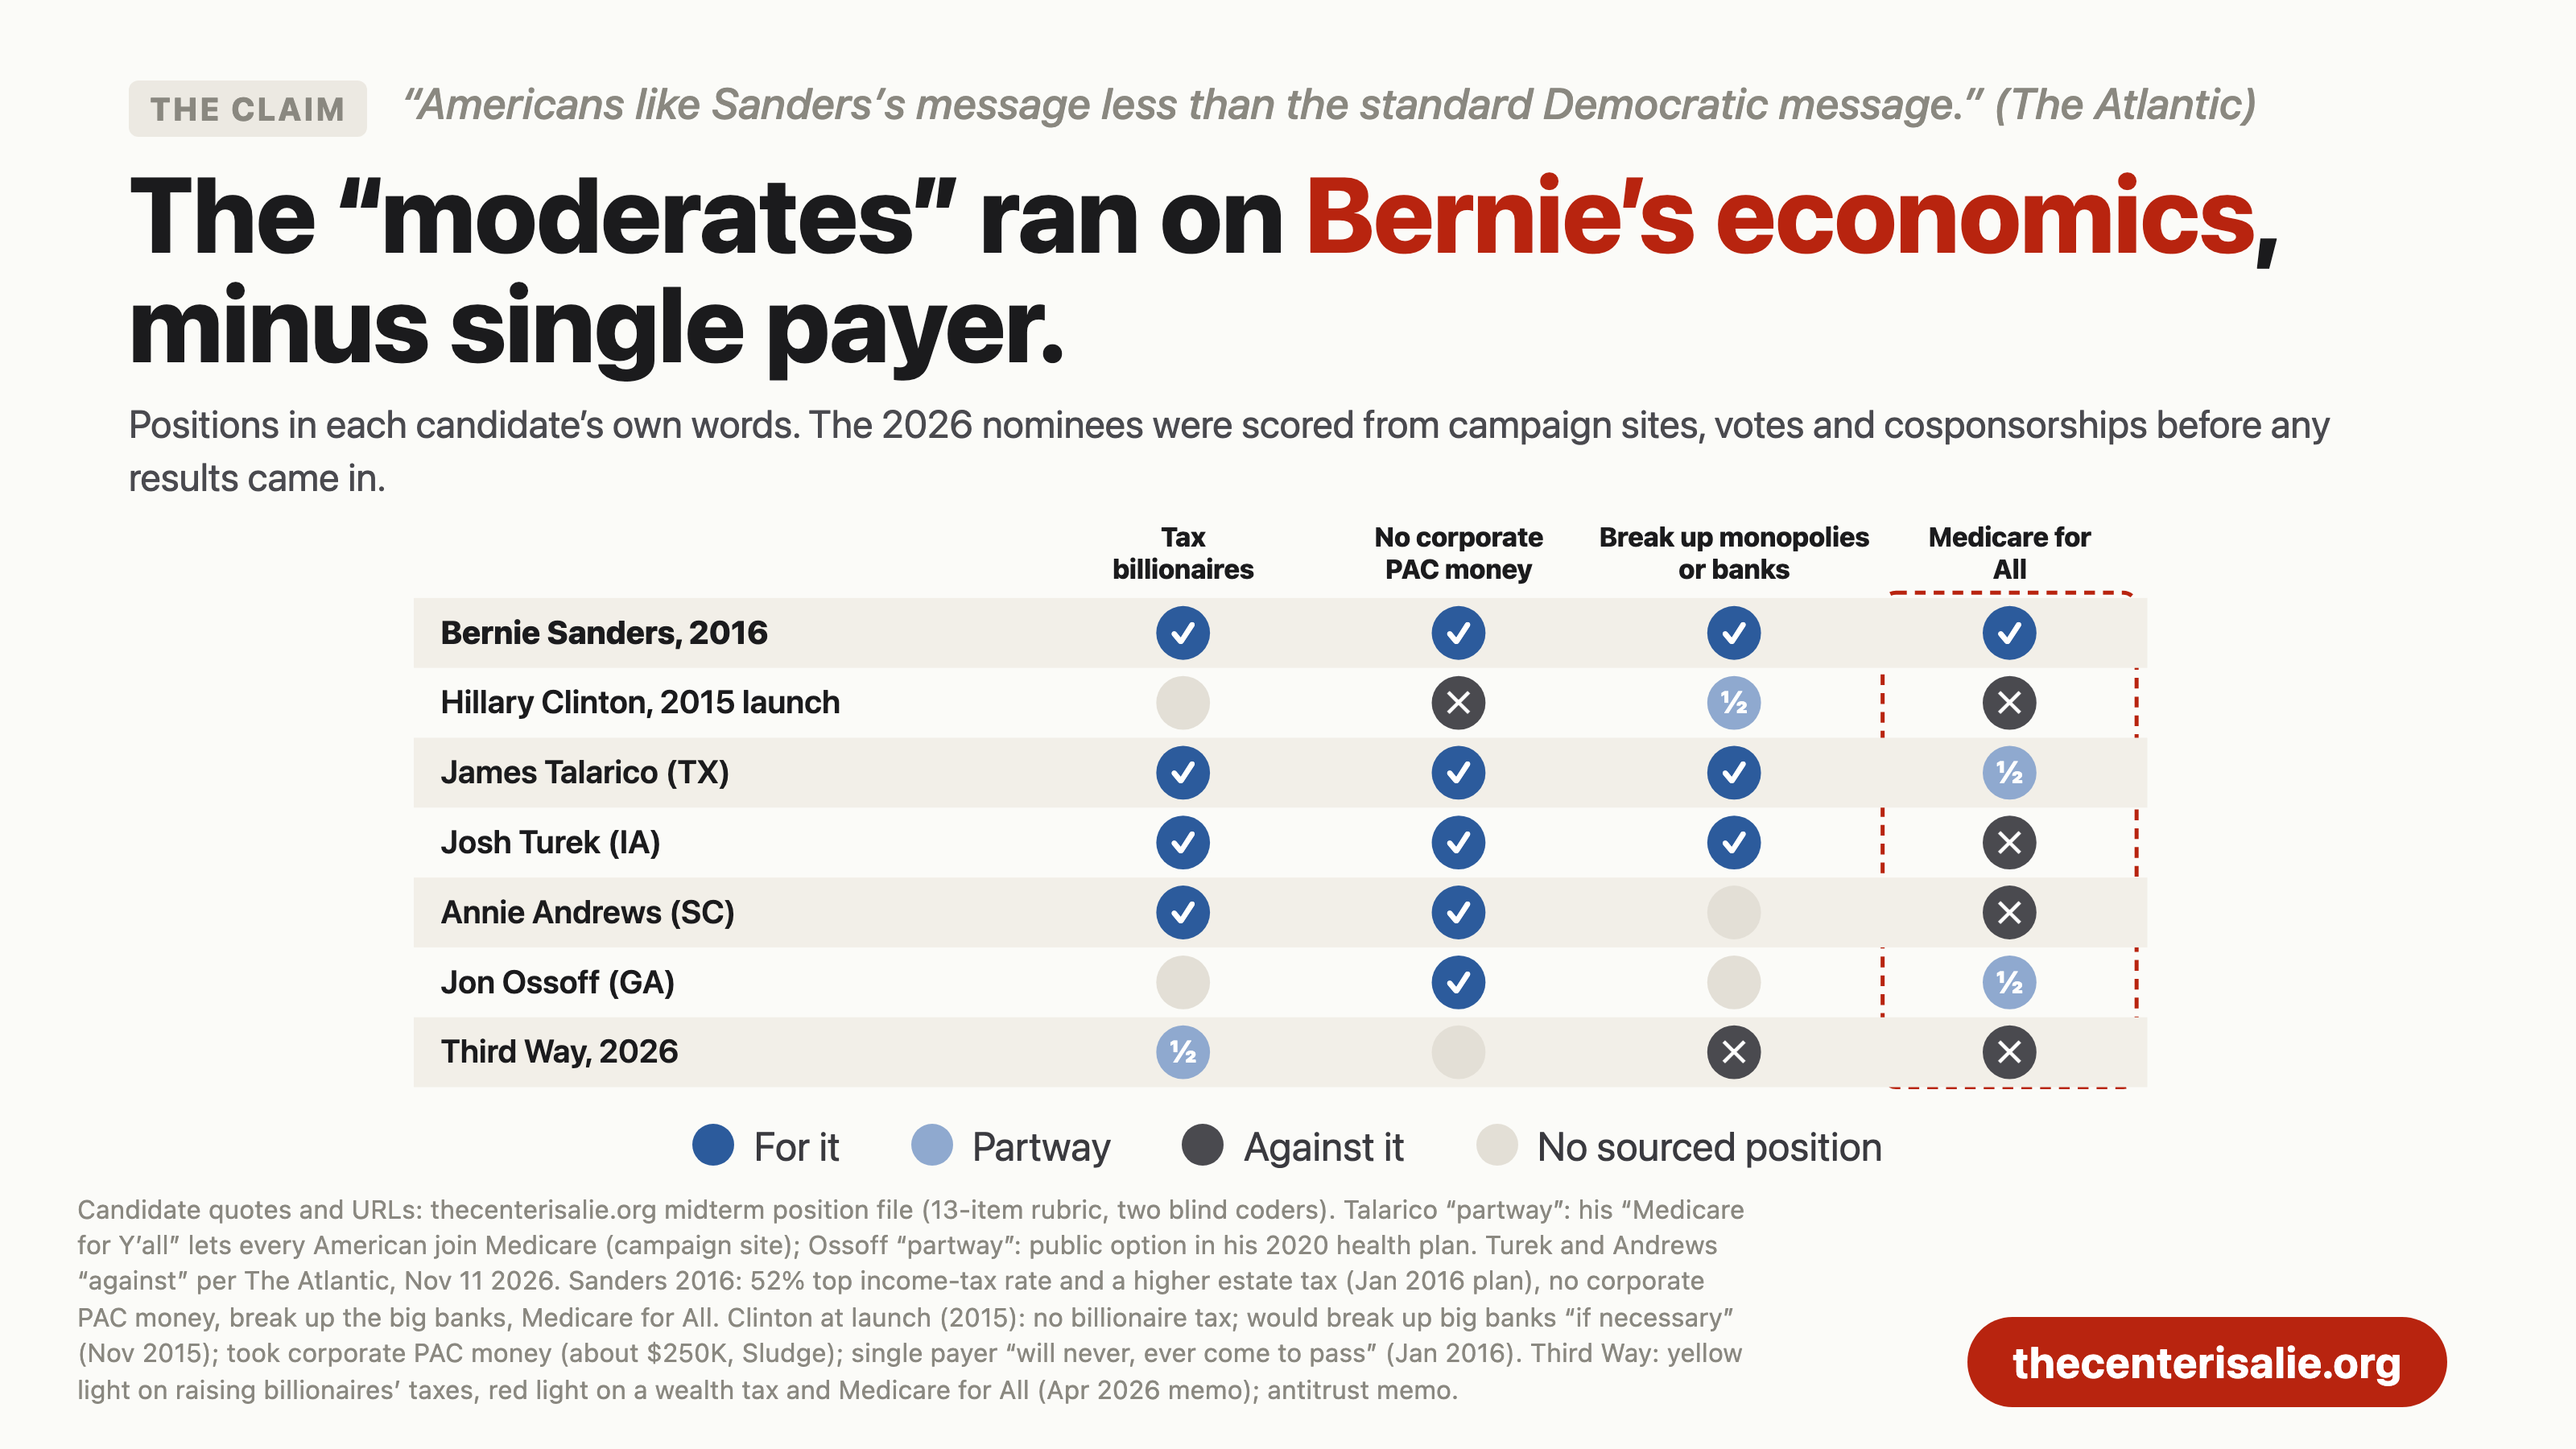
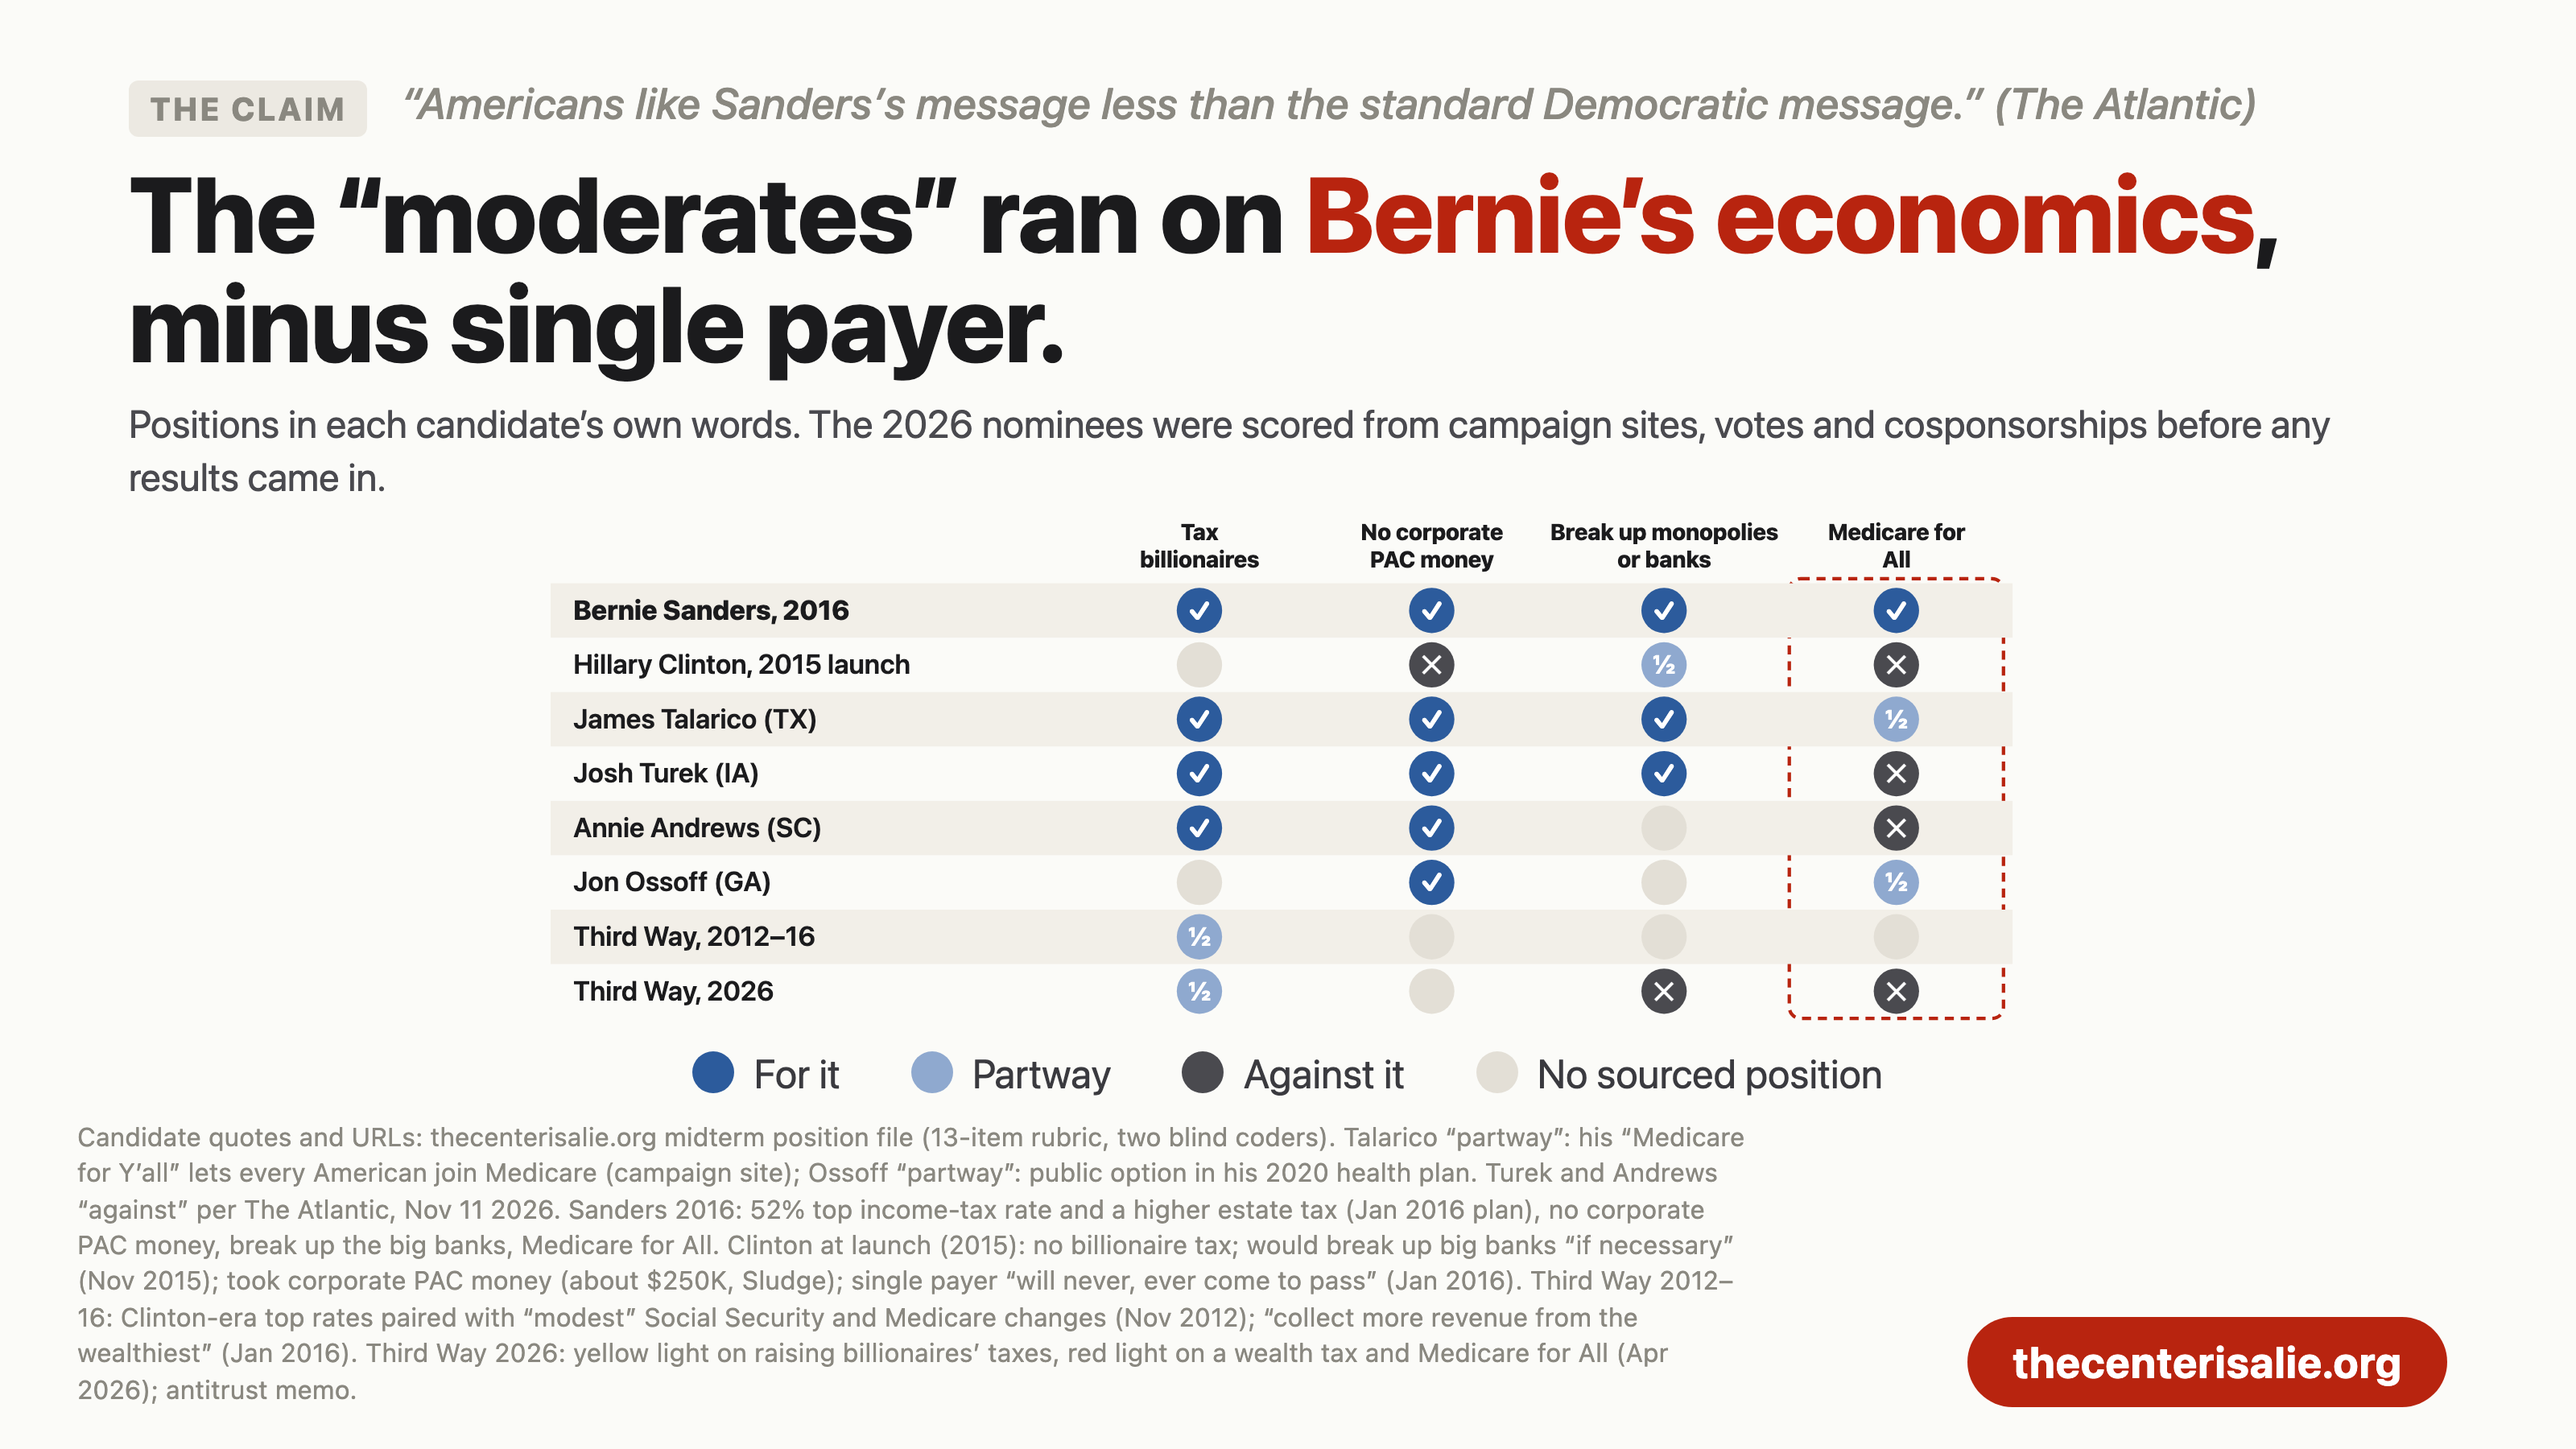
feat(og): add Third Way 2012-16 row (Clinton-era top rates with entitlement changes; 'collect more revenue from the wealthiest')

Changed region(s): [[0.0312, 0.7778, 0.7188, 0.9644], [0.3438, 0.3422, 0.8125, 0.7467], [0.1562, 0.4044, 0.3438, 0.7467]]

diff --git a/web/og-cards/chart-chait-platform.html b/web/og-cards/chart-chait-platform.html
@@ -6,8 +6,8 @@
     <div class="cc-title">The &ldquo;moderates&rdquo; ran on <span class="hl">Bernie&rsquo;s economics</span>, minus single payer.</div>
     <div class="cc-sub">Positions in each candidate&rsquo;s own words. The 2026 nominees were scored from campaign sites, votes and cosponsorships before any results came in.</div>
 
-    <div class="cc-chart"><svg id="c" viewBox="0 0 1300 450" role="img"
-      aria-label="Sanders 2016: tax billionaires yes, refuse corporate PAC money yes, break up monopolies yes, Medicare for All yes. Hillary Clinton at her 2015 launch: no position, took corporate PAC money, partway (break up big banks if necessary), against. Talarico: yes, yes, yes, partway, a Medicare buy-in open to every American. Turek: yes, yes, yes, no. Andrews: yes, yes, no position found, no. Ossoff: no position found, yes, no position found, partway, a public option. Third Way: partway, raising billionaires' taxes but not a wealth tax; no position; opposed; opposed."></svg></div>
+    <div class="cc-chart"><svg id="c" viewBox="0 0 1300 470" role="img"
+      aria-label="Sanders 2016: tax billionaires yes, refuse corporate PAC money yes, break up monopolies yes, Medicare for All yes. Hillary Clinton at her 2015 launch: no position, took corporate PAC money, partway (break up big banks if necessary), against. Talarico: yes, yes, yes, partway, a Medicare buy-in open to every American. Turek: yes, yes, yes, no. Andrews: yes, yes, no position found, no. Ossoff: no position found, yes, no position found, partway, a public option. Third Way 2012 to 2016: partway on taxing the wealthy, no sourced position on the other three. Third Way 2026: partway, raising billionaires' taxes but not a wealth tax; no position; opposed; opposed."></svg></div>
 
     <div class="cc-legend">
       <span class="item"><span class="dot" style="background:#2c5b9c"></span>For it</span>
@@ -16,7 +16,7 @@
       <span class="item"><span class="dot" style="background:#e3dfd6"></span>No sourced position</span>
     </div>
     <div class="cc-foot">
-      <div class="cc-source">Candidate quotes and URLs: thecenterisalie.org midterm position file (13-item rubric, two blind coders). Talarico &ldquo;partway&rdquo;: his &ldquo;Medicare for Y&rsquo;all&rdquo; lets every American join Medicare (campaign site); Ossoff &ldquo;partway&rdquo;: public option in his 2020 health plan. Turek and Andrews &ldquo;against&rdquo; per The Atlantic, Nov 11 2026. Sanders 2016: 52% top income-tax rate and a higher estate tax (Jan 2016 plan), no corporate PAC money, break up the big banks, Medicare for All. Clinton at launch (2015): no billionaire tax; would break up big banks &ldquo;if necessary&rdquo; (Nov 2015); took corporate PAC money (about $250K, Sludge); single payer &ldquo;will never, ever come to pass&rdquo; (Jan 2016). Third Way: yellow light on raising billionaires&rsquo; taxes, red light on a wealth tax and Medicare for All (Apr 2026 memo); antitrust memo.</div>
+      <div class="cc-source">Candidate quotes and URLs: thecenterisalie.org midterm position file (13-item rubric, two blind coders). Talarico &ldquo;partway&rdquo;: his &ldquo;Medicare for Y&rsquo;all&rdquo; lets every American join Medicare (campaign site); Ossoff &ldquo;partway&rdquo;: public option in his 2020 health plan. Turek and Andrews &ldquo;against&rdquo; per The Atlantic, Nov 11 2026. Sanders 2016: 52% top income-tax rate and a higher estate tax (Jan 2016 plan), no corporate PAC money, break up the big banks, Medicare for All. Clinton at launch (2015): no billionaire tax; would break up big banks &ldquo;if necessary&rdquo; (Nov 2015); took corporate PAC money (about $250K, Sludge); single payer &ldquo;will never, ever come to pass&rdquo; (Jan 2016). Third Way 2012&ndash;16: Clinton-era top rates paired with &ldquo;modest&rdquo; Social Security and Medicare changes (Nov 2012); &ldquo;collect more revenue from the wealthiest&rdquo; (Jan 2016). Third Way 2026: yellow light on raising billionaires&rsquo; taxes, red light on a wealth tax and Medicare for All (Apr 2026); antitrust memo.</div>
       <div class="cc-btn">thecenterisalie.org</div>
     </div>
   </div>
@@ -35,9 +35,10 @@
       ['Josh Turek (IA)', [1, 1, 1, -1]],
       ['Annie Andrews (SC)', [1, 1, 0, -1]],
       ['Jon Ossoff (GA)', [0, 1, 0, 0.5]],
+      ['Third Way, 2012–16', [0.5, 0, 0, 0]],
       ['Third Way, 2026', [0.5, 0, -1, -1]],
     ];
-    const lx = 20, cx0 = 470, cw = 205, y0 = 70, rh = 52;
+    const lx = 20, cx0 = 470, cw = 205, y0 = 70, rh = 48;
     cols.forEach((c, j) => {
       const x = cx0 + j * cw + cw / 2;
       const w = c.split(' ');
